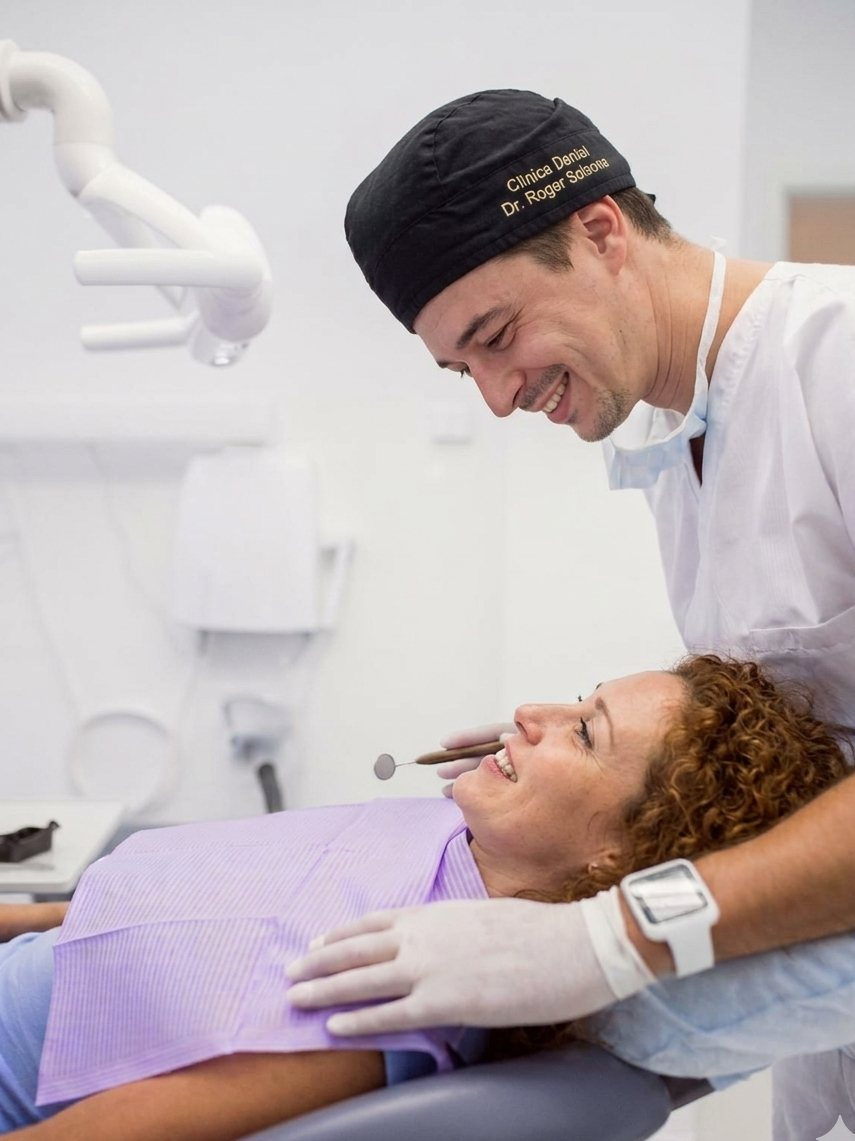
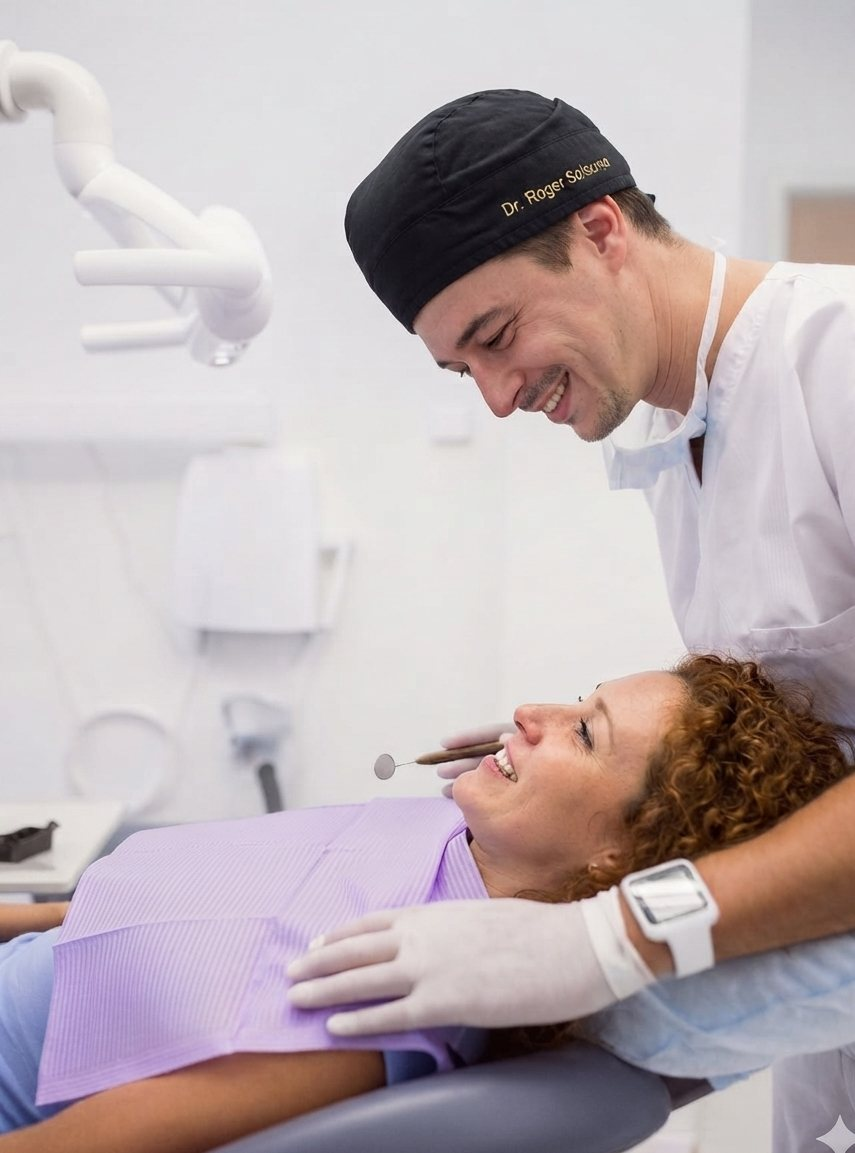
og:image torna a la foto rpkv4r (mateixa que el fons del hero)

diff --git a/index.html b/index.html
@@ -16,7 +16,7 @@
         content="Odontòleg especialista en cirurgia oral i implantologia: regeneració òssia avançada, elevació de si, cirurgia guiada i pròtesi sobre implants.">
     <!-- Imatge de previsualització en compartir l'enllaç (WhatsApp, Facebook, LinkedIn...). URL absoluta obligatòria. -->
     <meta property="og:image" content="https://rogersolsona2011.github.io/assets/og.jpg">
-    <meta property="og:image:alt" content="El Dr. Roger Solsona a la consulta">
+    <meta property="og:image:alt" content="El Dr. Roger Solsona atenent una pacient a la consulta">
     <meta name="twitter:card" content="summary_large_image">
     <meta name="twitter:image" content="https://rogersolsona2011.github.io/assets/og.jpg">
 
